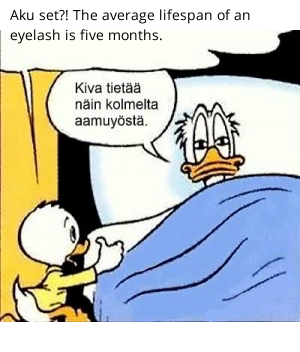
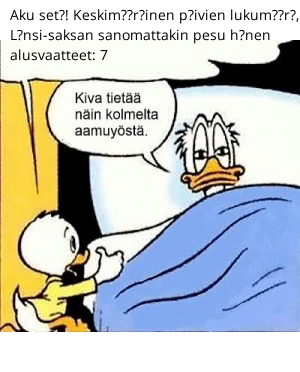
Fixed something, it works better now

Changed region(s): [[0.0, 0.0, 1.0, 0.625], [0.0, 0.5625, 1.0, 0.9375]]

diff --git a/blackkari/src/facts/factService.js b/blackkari/src/facts/factService.js
@@ -1,6 +1,7 @@
 const fetch = require('node-fetch');
 const db = require('../db/db.js')
 const imgGenerator = require('../image/generateImage.js')
+const translationService = require('../services/translation.js')
 
 module.exports = function() {
     this.dailyFact = getDailyFact
@@ -12,11 +13,15 @@ function getDailyFact() {
     fetch('https://uselessfacts.jsph.pl/random.json?language=en')
         .then(response => response.json())
         .then(data => {
-            imgGenerator(data.text)
-                .then(base64 => {
-                    console.log("image " + base64)
-                    dbInstance.save(data.text, base64)
+            translationService(data.text)
+                .then(translation => {
+                    console.log("Translation: " + translation)
+                    imgGenerator(translation)
+                        .then(base64 => {
+                            dbInstance.save(data.text, translation, base64)
+                        })
                 })
+
         })
         .catch(err =>  {console.log(err)})
 }

diff --git a/blackkari/src/services/translation.js b/blackkari/src/services/translation.js
@@ -1,0 +1,19 @@
+const fetch = require('node-fetch')
+const config = require('../config.json')
+
+/**
+ * Translates text to finnish with Yandex translation service
+ */
+
+module.exports = async function(text) {
+    const request = `https://translate.yandex.net/api/v1.5/tr.json/translate?key=${config.translation.key}&text=${text}&lang=${config.translation.languageDirection}`
+    console.log("Request: " + request)
+    return fetch(request)
+        .then(response => response.json())
+        .then(data => {
+            console.log(data.text[0])
+            return data.text[0]
+
+        })
+
+}

diff --git a/blackkari/src/db/db.js b/blackkari/src/db/db.js
@@ -13,11 +13,11 @@ function mongoDb() {
     });
 }
 
-mongoDb.prototype.save = function save(fact, imgBase64) {
+mongoDb.prototype.save = function save(factEn, factFi, imgBase64) {
     db.connect(url, function(err, db) {
         if (err) throw err
         const dbo = db.db("mydb")
-        let factObj = { date: new Date(), fact: fact, image: imgBase64}
+        let factObj = { date: new Date(), factEn: factEn, factFi: factFi, image: imgBase64}
         dbo.collection("facts").insertOne(factObj, function(err, res) {
             if(err) {
                 console.log("Error inserting object")
